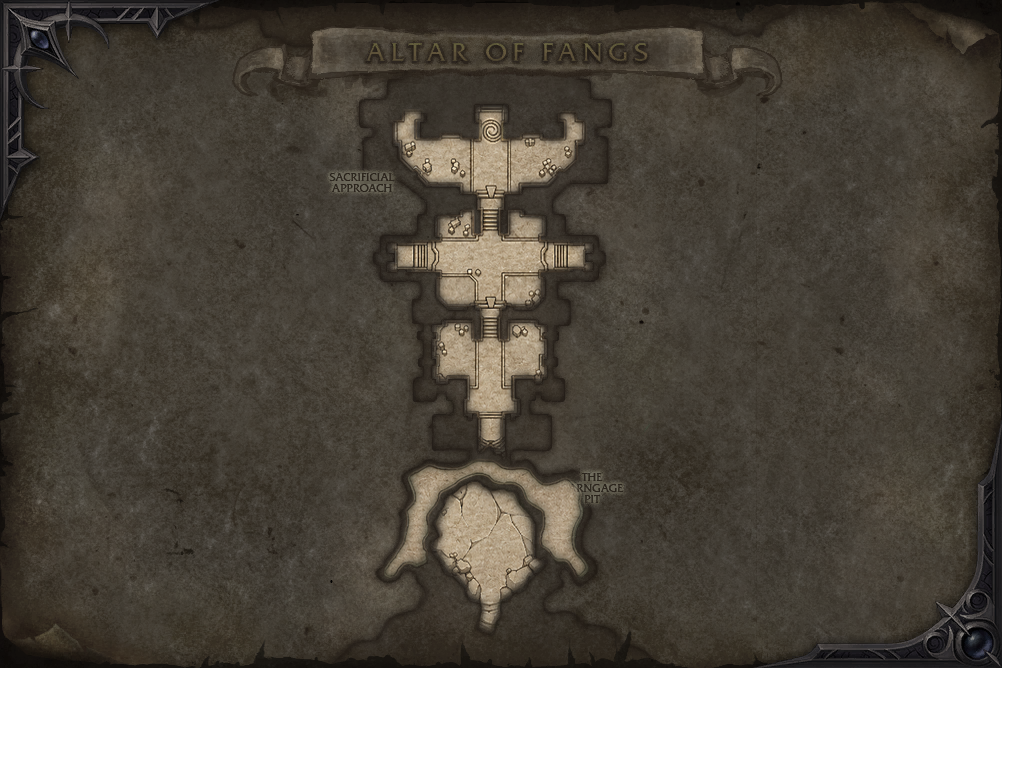
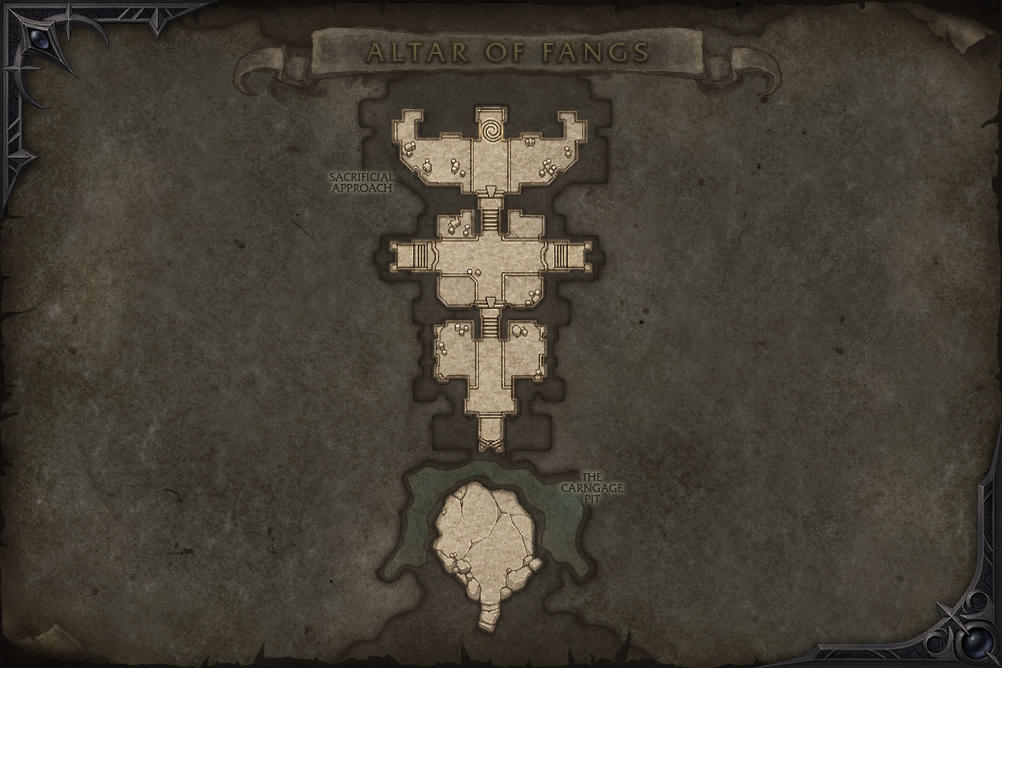
Deploy planner spike (web/planner-spike -> /planner)

diff --git a/planner/index.html b/planner/index.html
@@ -5,10 +5,10 @@
 <meta name="viewport" content="width=device-width, initial-scale=1, maximum-scale=4" />
 <title>Kepler — route planner spike (Pit of Saron)</title>
 <link rel="stylesheet" href="./vendor/leaflet.css" />
-<!-- Arcane theme display/body faces (Rajdhani + Inter); the CSS falls back to system-ui if offline -->
+<!-- Arcane theme display/body faces (Oxanium + Inter); the CSS falls back to system-ui if offline -->
 <link rel="preconnect" href="https://fonts.googleapis.com">
 <link rel="preconnect" href="https://fonts.gstatic.com" crossorigin>
-<link rel="stylesheet" href="https://fonts.googleapis.com/css2?family=Inter:wght@400;500;600;700&family=Rajdhani:wght@500;600;700&display=swap">
+<link rel="stylesheet" href="https://fonts.googleapis.com/css2?family=Inter:wght@400;500;600;700&family=Oxanium:wght@400;500;600;700;800&display=swap">
 <style>
   :root {
     /* === Arcane — refined direction (kepler-arcane.html) === */
@@ -18,7 +18,7 @@
     --accent:#2dd4bf; --accent-2:#8b7ff0; --accent-soft:rgba(45,212,191,.15);
     --res:#27d3c0; --res-soft:rgba(39,211,192,.12);
     --tank:#5b9bd5; --heal:#57c785; --dps:#d9694a;
-    --fd:'Rajdhani', system-ui, sans-serif; --fb:'Inter', system-ui, sans-serif;
+    --fd:'Oxanium', system-ui, sans-serif; --fb:'Inter', system-ui, sans-serif;
     --radius-sm:8px; --card-radius:10px;
     /* aliases so the existing components + the ported kw-cards keep working unchanged */
     --muted:var(--ink-2);
@@ -232,6 +232,7 @@
   /* talent picker — realigned to the Live Analysis card language: one CARD per spec (left class-colour bar +
      glowing dot + "Class · Spec" + a count badge + chevron), collapsed by default. Choices are boxed "nodes"
      (both options shown, the taken one a TEAL signal); utility talents are teal chips under a quiet subhead. */
+  #tab-talents { font-family:var(--fd); }   /* the whole talent panel in Oxanium (incl. option labels/subhead), per the mockup */
   .talent-head { display:flex; align-items:flex-start; justify-content:space-between; gap:12px; margin:2px 0 14px; }
   .talent-eyebrow { font-family:var(--fd); font-size:11px; font-weight:700; letter-spacing:.18em; text-transform:uppercase; color:var(--muted); }
   .talent-subhead { font-size:12px; color:var(--ink-3); margin-top:5px; line-height:1.35; max-width:220px; }
@@ -296,7 +297,7 @@
     --kw-ink:#e9ebf2; --kw-ink-2:#9aa0b3; --kw-ink-3:#686e82;
     --kw-tank:#5b9bd5; --kw-heal:#57c785; --kw-dps:#d9694a;
     --kw-res:#27d3c0; --kw-res-soft:rgba(39,211,192,0.12);
-    --kw-display:'Rajdhani', system-ui, sans-serif; --kw-body:'Inter', system-ui, sans-serif;
+    --kw-display:'Oxanium', system-ui, sans-serif; --kw-body:'Inter', system-ui, sans-serif;
     width:100%; font-family:var(--kw-body); color:var(--kw-ink); -webkit-font-smoothing:antialiased; }
   .kw-analysis-panel * { box-sizing:border-box; }
   /* severity tiers */
@@ -374,7 +375,7 @@
   #kw-tip { position:fixed; z-index:9999; max-width:300px; display:none; pointer-events:none;
     background:#171922; border:1px solid #2a2e3d; border-radius:9px; padding:9px 11px;
     box-shadow:0 10px 28px -10px rgba(0,0,0,.75); font-family:'Inter',system-ui,sans-serif; }
-  #kw-tip .kw-tip-title { font-family:'Rajdhani',system-ui,sans-serif; font-weight:700; font-size:14.5px; color:#e9edf4; line-height:1.2; }
+  #kw-tip .kw-tip-title { font-family:'Oxanium',system-ui,sans-serif; font-weight:700; font-size:14.5px; color:#e9edf4; line-height:1.2; }
   #kw-tip .kw-tip-meta { font-size:11px; color:#7c8696; margin:2px 0 6px; }
   #kw-tip .kw-tip-desc { font-size:12.5px; line-height:1.45; color:#c8cedb; white-space:pre-wrap; }
   .kw-role p { margin:0; font-size:12px; line-height:1.4; color:var(--kw-ink); }